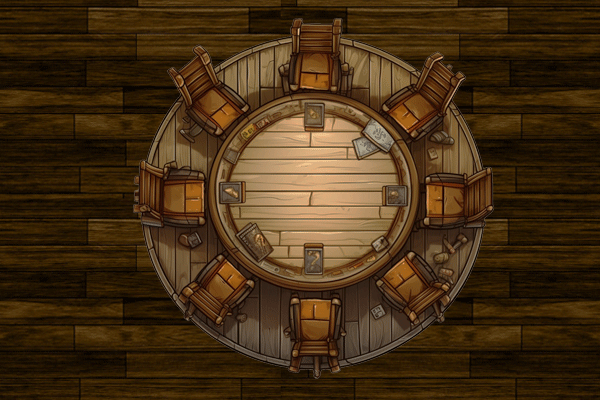
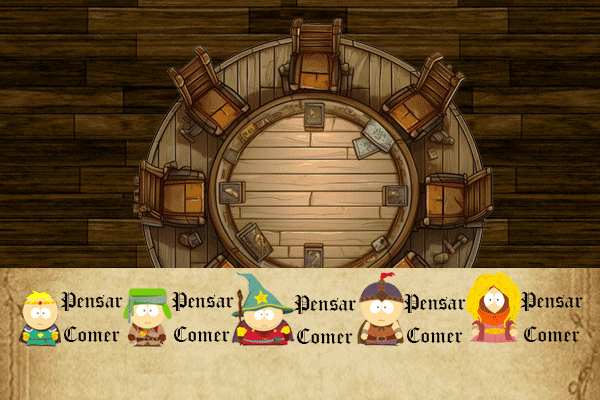
Todos os filosofos funcionando em tempo fixo

diff --git a/control/mainController.java b/control/mainController.java
@@ -4,8 +4,10 @@ import java.net.URL;
 import java.util.ResourceBundle;
 import java.util.concurrent.Semaphore;
 
+import javafx.application.Platform;
 import javafx.fxml.FXML;
 import javafx.fxml.Initializable;
+import javafx.scene.control.Slider;
 import javafx.scene.image.Image;
 import javafx.scene.image.ImageView;
 import thread.Philosopher;
@@ -13,6 +15,40 @@ import thread.Philosopher;
 public class mainController implements Initializable {
 
   // DECLARACAO DOS RECURSOS DO FXML
+
+  // SLIDERS
+
+  @FXML
+  private Slider buttersESlider;
+
+  @FXML
+  private Slider buttersTSlider;
+
+  @FXML
+  private Slider ericESlider;
+
+  @FXML
+  private Slider ericTSlider;
+
+  @FXML
+  private Slider kennyESlider;
+
+  @FXML
+  private Slider kennyTSlider;
+
+  @FXML
+  private Slider kyleESlider;
+
+  @FXML
+  private Slider kyleTSlider;
+
+  @FXML
+  private Slider stanESlider;
+
+  @FXML
+  private Slider stanTSlider;
+
+  // IMAGEVIEW
 
   @FXML
   private ImageView fork01;
@@ -28,9 +64,6 @@ public class mainController implements Initializable {
 
   @FXML
   private ImageView fork05;
-
-  @FXML
-  private ImageView fork06;
 
   @FXML
   private ImageView plate01;
@@ -81,15 +114,19 @@ public class mainController implements Initializable {
   Semaphore mutexSemaphore = new Semaphore(1);
   Semaphore arraySemaphore[] = new Semaphore[nPhilosophers];
 
+  // VARIAVEIS DE VELOCIDADE
+  private int TSpeed = 1000;
+  private int ESpeed = 1000;
+
   @Override
   public void initialize(URL location, ResourceBundle resources) {
     setState();
     // Instanciando as threads dos filosofos
     this.philosopher1 = new Philosopher(0);
     this.philosopher2 = new Philosopher(1);
-    this.philosopher3 = new Philosopher(3);
-    this.philosopher4 = new Philosopher(4);
-    this.philosopher5 = new Philosopher(5);
+    this.philosopher3 = new Philosopher(2);
+    this.philosopher4 = new Philosopher(3);
+    this.philosopher5 = new Philosopher(4);
 
     // Setando os controllers dos filosofos
     philosopher1.setController(this);
@@ -106,38 +143,79 @@ public class mainController implements Initializable {
     philosopher5.start();
   }
 
-  public void setEatingImg(int id) {
-    if (id == 0) {
-      thinkingButters.setImage(new Image("/assets/eatingButters.png"));
-      fork01.setVisible(false);
-      fork02.setVisible(false);
-      plate01.setVisible(true);
-    }
-    if (id == 1) {
-      thinkingKyle.setImage(new Image("/assets/eatingKyle.png"));
-      fork02.setVisible(false);
-      fork03.setVisible(false);
-      plate02.setVisible(true);
-    }
-    if (id == 2) {
-      thinkingEric.setImage(new Image("/assets/eatingEric.png"));
-      fork03.setVisible(false);
-      fork04.setVisible(false);
-      plate03.setVisible(true);
-    }
-    if (id == 3) {
-      thinkingStan.setImage(new Image("/assets/eatingStan.png"));
-      fork04.setVisible(false);
-      fork05.setVisible(false);
-      plate04.setVisible(true);
-    }
-    if (id == 4) {
-      thinkingKenny.setImage(new Image("/assets/eatingKenny.png"));
-      fork05.setVisible(false);
-      fork06.setVisible(false);
-      plate05.setVisible(true);
-    }
+  // Metodos de setar as imagens
+
+  public void setThinkingImg(int id) {
+    Platform.runLater(() -> {
+      if (id == 0) {
+        thinkingButters.setImage(new Image("/assets/thinkingButters.png"));
+        fork01.setVisible(true);
+        fork02.setVisible(true);
+        plate01.setVisible(false);
+      }
+      if (id == 1) {
+        thinkingKyle.setImage(new Image("/assets/thinkingKyle.png"));
+        fork02.setVisible(true);
+        fork03.setVisible(true);
+        plate02.setVisible(false);
+      }
+      if (id == 2) {
+        thinkingEric.setImage(new Image("/assets/thinkingEric.png"));
+        fork03.setVisible(true);
+        fork04.setVisible(true);
+        plate03.setVisible(false);
+      }
+      if (id == 3) {
+        thinkingStan.setImage(new Image("/assets/thinkingStan.png"));
+        fork04.setVisible(true);
+        fork05.setVisible(true);
+        plate04.setVisible(false);
+      }
+      if (id == 4) {
+        thinkingKenny.setImage(new Image("/assets/thinkingKenny.png"));
+        fork05.setVisible(true);
+        fork01.setVisible(true);
+        plate05.setVisible(false);
+      }
+    });
   }
+
+  public void setEatingImg(int id) {
+    Platform.runLater(() -> {
+      if (id == 0) {
+        thinkingButters.setImage(new Image("/assets/eatingButters.png"));
+        fork01.setVisible(false);
+        fork02.setVisible(false);
+        plate01.setVisible(true);
+      }
+      if (id == 1) {
+        thinkingKyle.setImage(new Image("/assets/eatingKyle.png"));
+        fork02.setVisible(false);
+        fork03.setVisible(false);
+        plate02.setVisible(true);
+      }
+      if (id == 2) {
+        thinkingEric.setImage(new Image("/assets/eatingEric.png"));
+        fork03.setVisible(false);
+        fork04.setVisible(false);
+        plate03.setVisible(true);
+      }
+      if (id == 3) {
+        thinkingStan.setImage(new Image("/assets/eatingStan.png"));
+        fork04.setVisible(false);
+        fork05.setVisible(false);
+        plate04.setVisible(true);
+      }
+      if (id == 4) {
+        thinkingKenny.setImage(new Image("/assets/eatingKenny.png"));
+        fork05.setVisible(false);
+        fork01.setVisible(false);
+        plate05.setVisible(true);
+      }
+    });
+  }
+
+  // Metodo que inicia os estados com 0
 
   public void setState() {
     for (int i = 0; i <= 4; i++) {
@@ -149,27 +227,76 @@ public class mainController implements Initializable {
   public void grabAFork(int id) throws InterruptedException {
     mutexSemaphore.acquire();
     state[id] = 1; // ESTADO DE FOME
-    System.err.println("SETOU FOME");
     testAFork(id);
-    System.out.println("O FILOSOFO: " + id + " ESTA COMENDO");
-    setEatingImg(id);
     mutexSemaphore.release();
     arraySemaphore[id].acquire();
   } // FIM DO METODO QUE PEGA OS GARFOS
 
   public void returnFork(int id) throws InterruptedException {
     mutexSemaphore.acquire();
-    state[id] = 1; // ESTADO DE PENSANDO
-    testAFork((id - 1) % 5); // TESTANDO GARFO DA ESQUERDA
+    state[id] = 0; // ESTADO DE PENSANDO
+    setThinkingImg(id);
+    testAFork(((id - 1) + 5) % 5); // TESTANDO GARFO DA ESQUERDA
     testAFork((id + 1) % 5); // TESTANDO GARFO DA DIREITA
+    System.out.println("O FILOSOFO " + id + " DEVOLVEU OS GARFOS");
     mutexSemaphore.release();
-    System.out.println("DEVOLVEU GARFO");
   } // FIM DEVOLVE GARFOS
 
   public void testAFork(int id) throws InterruptedException {
-    if (state[id] == 1 && state[(id - 1) % 5] != 2 && state[(id + 1) % 5] != 2) {
+    if (state[id] == 1 && state[((id - 1) + 5) % 5] != 2 && state[(id + 1) % 5] != 2) {
       state[id] = 2;
       arraySemaphore[id].release();
     } // FIM DO IF
   } // FIM DO METODO QUE TESTA OS GARFOS
+
+  // METODO QUE SETA O ESTADO DE PENSANDO
+  public void setState(int id) {
+    state[id] = 0;
+  }
+
+  // METODOS QUE SETAM AS VELOCIDADES DE PENSAR E COMER UTILIZANDO OS SLIDERS
+
+  public void setTValue(int id) {
+    if (id == 0) {
+      this.TSpeed = (int) buttersTSlider.getValue() * 1000;
+    }
+    if (id == 1) {
+      this.TSpeed = (int) kyleTSlider.getValue() * 1000;
+    }
+    if (id == 2) {
+      this.TSpeed = (int) ericTSlider.getValue() * 1000;
+    }
+    if (id == 3) {
+      this.TSpeed = (int) stanTSlider.getValue() * 1000;
+    }
+    if (id == 4) {
+      this.TSpeed = (int) kennyTSlider.getValue() * 1000;
+    }
+  }
+
+  public void setEValue(int id) {
+    if (id == 0) {
+      this.ESpeed = (int) buttersESlider.getValue() * 1000;
+    }
+    if (id == 1) {
+      this.ESpeed = (int) kyleESlider.getValue() * 1000;
+    }
+    if (id == 2) {
+      this.ESpeed = (int) ericESlider.getValue() * 1000;
+    }
+    if (id == 3) {
+      this.ESpeed = (int) stanESlider.getValue() * 1000;
+    }
+    if (id == 4) {
+      this.ESpeed = (int) kennyESlider.getValue() * 1000;
+    }
+  }
+
+  public int getTSpeed() {
+      return TSpeed;
+  }
+
+  public int getESpeed() {
+      return ESpeed;
+  }
 }

diff --git a/thread/Philosopher.java b/thread/Philosopher.java
@@ -1,38 +1,47 @@
 package thread;
 
 import control.*;
+import javafx.application.Platform;
 
 public class Philosopher extends Thread {
-    private int id;
-    mainController mainController = new mainController();
+  private int id;
+  mainController mainController = new mainController();
 
-    public void setController(mainController controller) {
-        this.mainController = controller;
-    }
+  public void setController(mainController controller) {
+    this.mainController = controller;
+  }
 
-    public Philosopher(int id) {
-        this.id = id;
-    }
+  public Philosopher(int id) {
+    this.id = id;
+  }
 
-    @Override
-    public void run() {
-        try {
-            thinking();
-        } catch (InterruptedException e) {
-        }
-        try {
-            mainController.grabAFork(4);
-        } catch (InterruptedException e) {
-            e.printStackTrace();
-        }
-        try {
-            mainController.returnFork(4);
-        } catch (InterruptedException e) {
-            e.printStackTrace();
-        }
+  @Override
+  public void run() { // METODO QUE É INICIADO AO STARTAR A THREAD
+    while (true) {
+      try {
+        thinking();
+        mainController.grabAFork(id);
+        eating();
+        mainController.returnFork(id);
+      } catch (InterruptedException e) {
+        e.printStackTrace();
+      }
     }
+  }
 
-    public void thinking() throws InterruptedException{
-        sleep(1000);
-    }
+  // METODO QUE FAZ O PERSONAGEM "PENSAR"
+
+  public void thinking() throws InterruptedException {
+    Platform.runLater(() -> mainController.setState(id));
+    System.out.println(mainController.getTSpeed());
+    sleep(mainController.getTSpeed());
+  }
+ 
+  // METODO ONDE O PERSONAGEM COME
+  
+  public void eating() throws InterruptedException {
+    mainController.setEatingImg(id);
+    System.out.println(mainController.getESpeed());
+    sleep(mainController.getESpeed());
+  }
 }

diff --git a/Principal.java b/Principal.java
@@ -1,3 +1,11 @@
+/* ***************************************************************
+* Autor............: Breno Bering Silva
+* Matricula........: 202110863
+* Inicio...........: 6/05/2023
+* Ultima alteracao.: 7/05/2023
+* Nome.............: Jantar dos Filósofos
+* Funcao...........: Resolver problema do Jantar dos Filosofos
+*************************************************************** */
 import javafx.application.Application;
 import javafx.fxml.FXMLLoader;
 import javafx.scene.Parent;
@@ -5,13 +13,14 @@ import javafx.scene.Scene;
 import javafx.stage.Stage;
 import control.*;
 
-public class Principal extends Application{
+public class Principal extends Application {
     public static void main(String[] args) {
         launch(args);
     }
 
     @Override
     public void start(Stage primaryStage) throws Exception {
+        // CRIANDO A TELA PRINCIPAL
         mainController control = new mainController();
         FXMLLoader loader = new FXMLLoader(getClass().getResource("/assets/background.fxml"));
         Parent root = loader.load();
